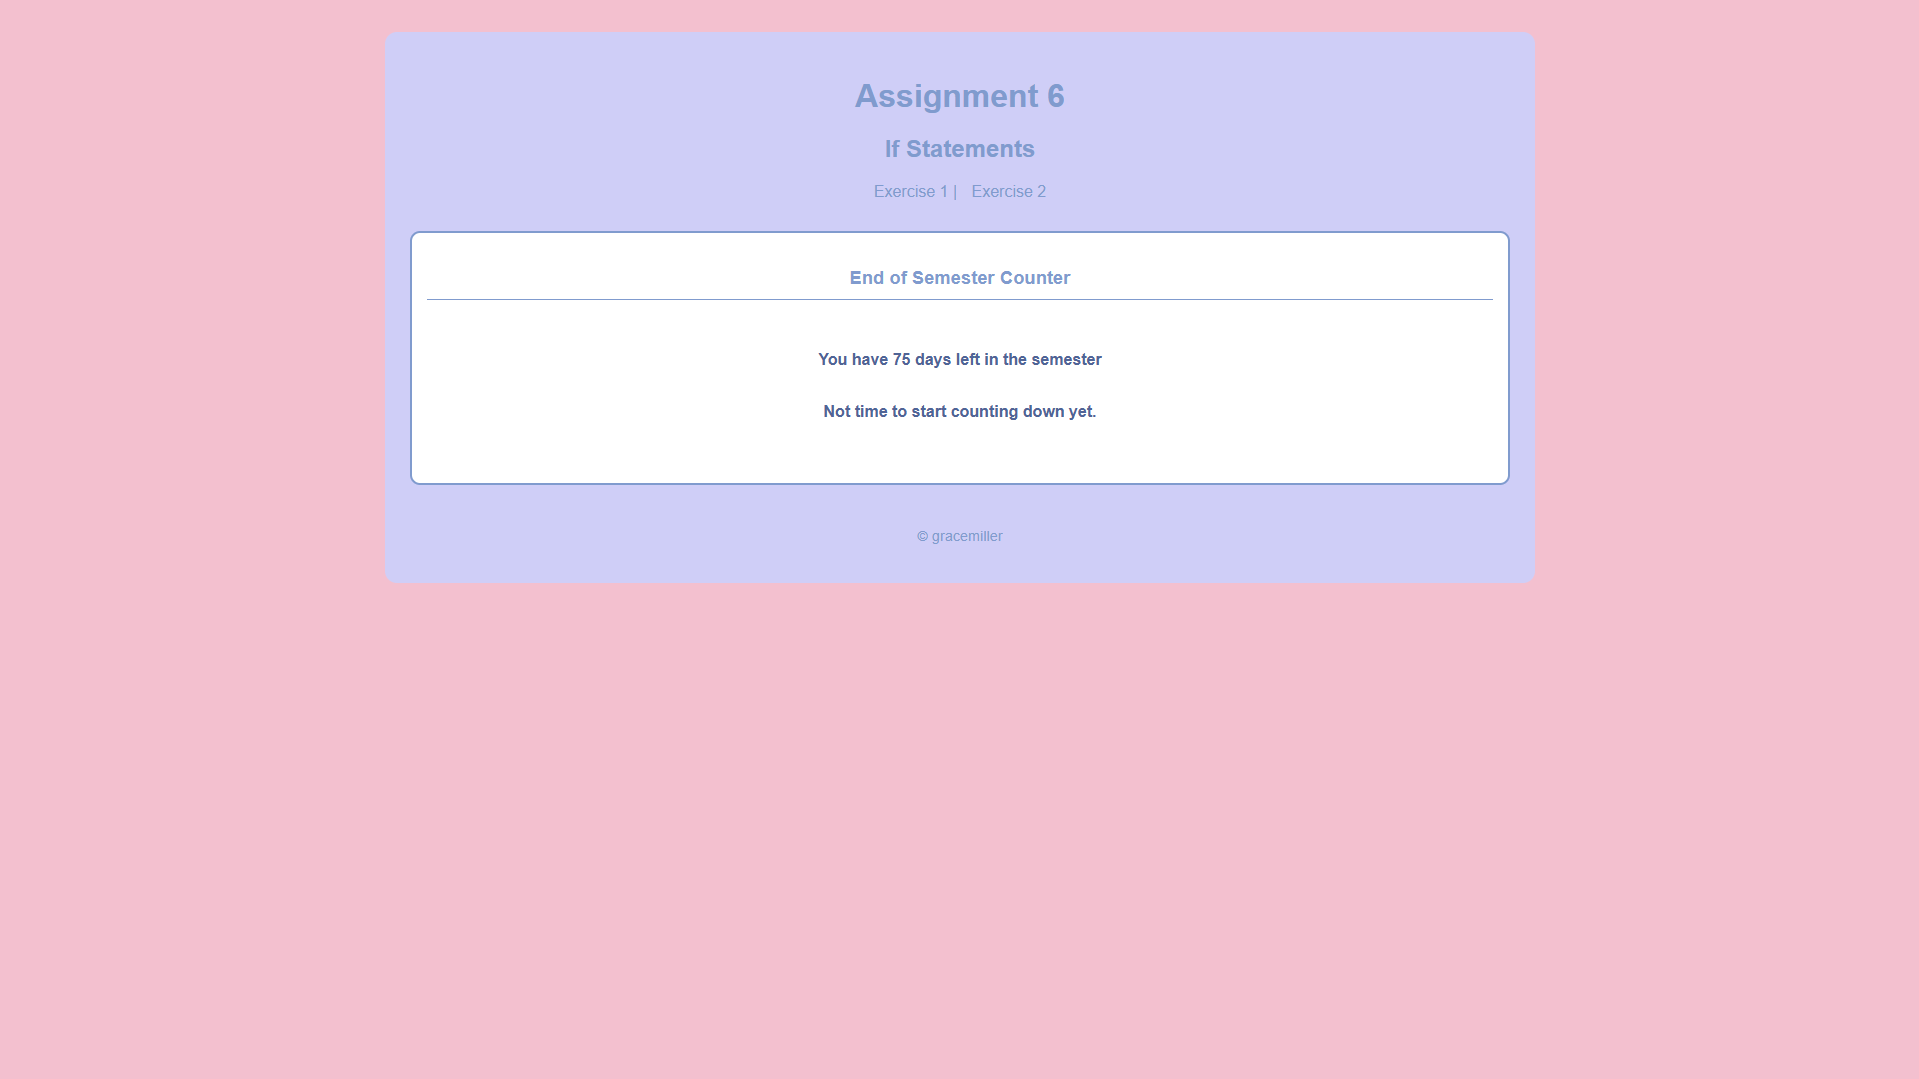
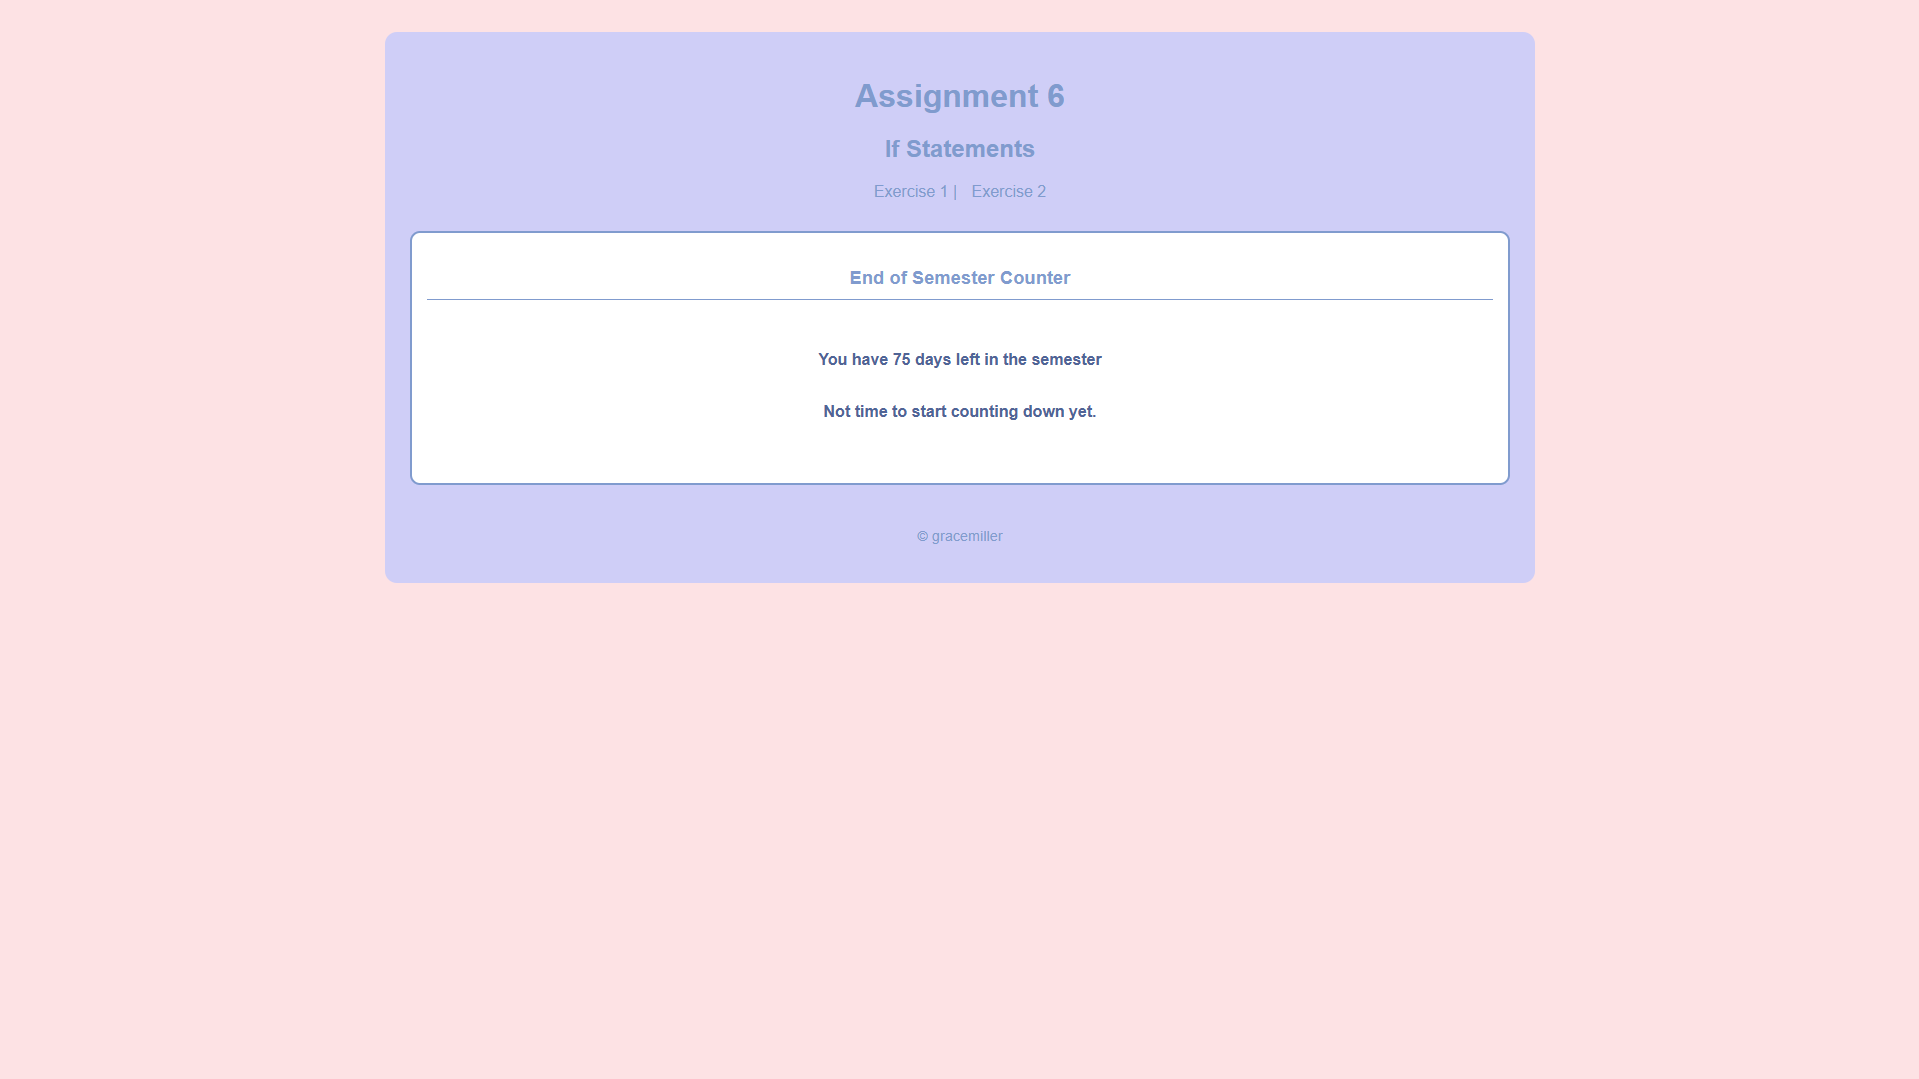
changed bg colors for assignment 5 and 6 so they  look more distinct from my mian page, updated screenshots

diff --git a/csce242/assignments/05js/styles.css b/csce242/assignments/05js/styles.css
@@ -1,6 +1,6 @@
 body {
   font-family: Arial, Helvetica, sans-serif;
-  background-color: rgb(234,154,178);
+  background-color: rgb(253,226,228);
 }
 
 /* page class */
@@ -8,7 +8,7 @@ body {
   max-width: 1100px;
   margin: 2rem auto;
   padding: 25px;
-  background-color: rgb(255,229,236);
+  background-color: rgb(245, 206, 217);
   border-radius: 12px;
 }
 

diff --git a/csce242/assignments/06conditionals/styles.css b/csce242/assignments/06conditionals/styles.css
@@ -1,6 +1,6 @@
 body {
   font-family: Arial, Helvetica, sans-serif;
-  background-color: rgb(243, 192, 207);
+  background-color: rgb(253,226,228);
 }
 
 /* page class */
